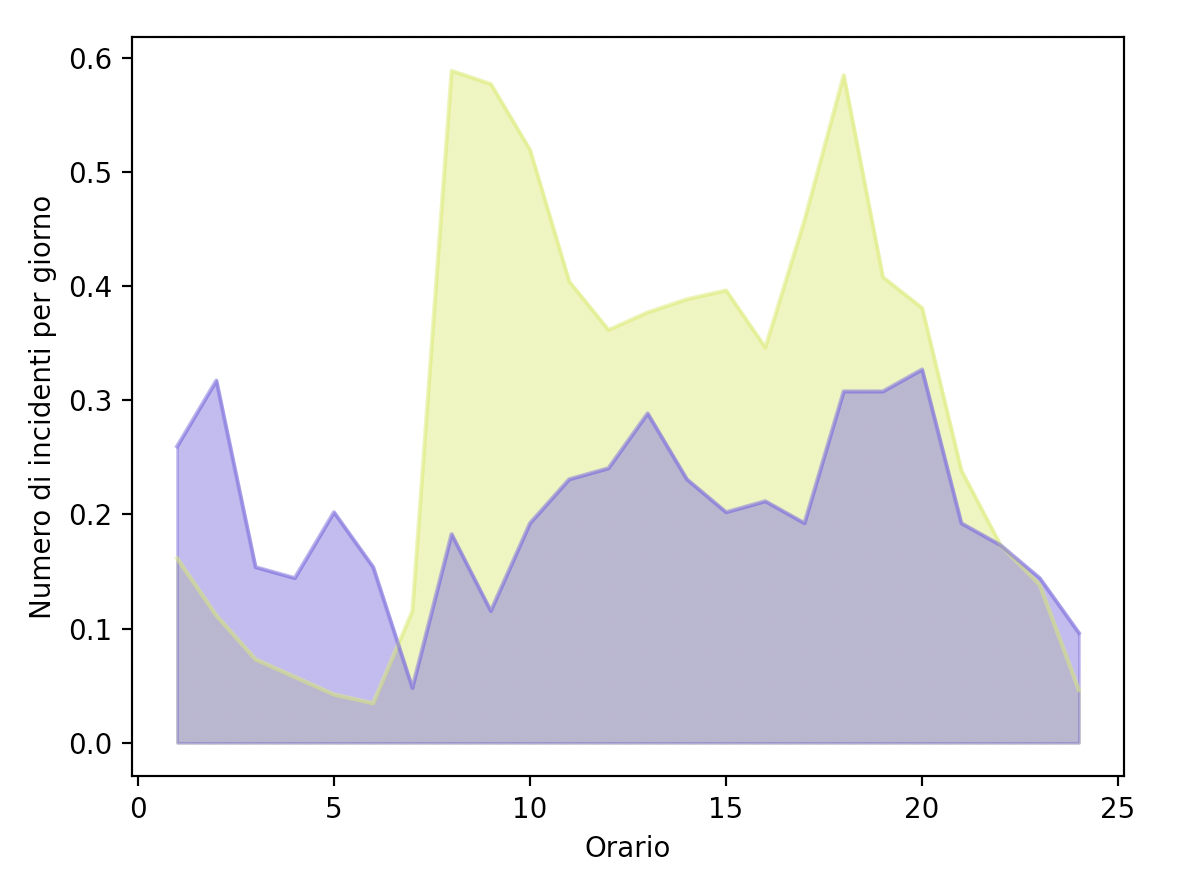
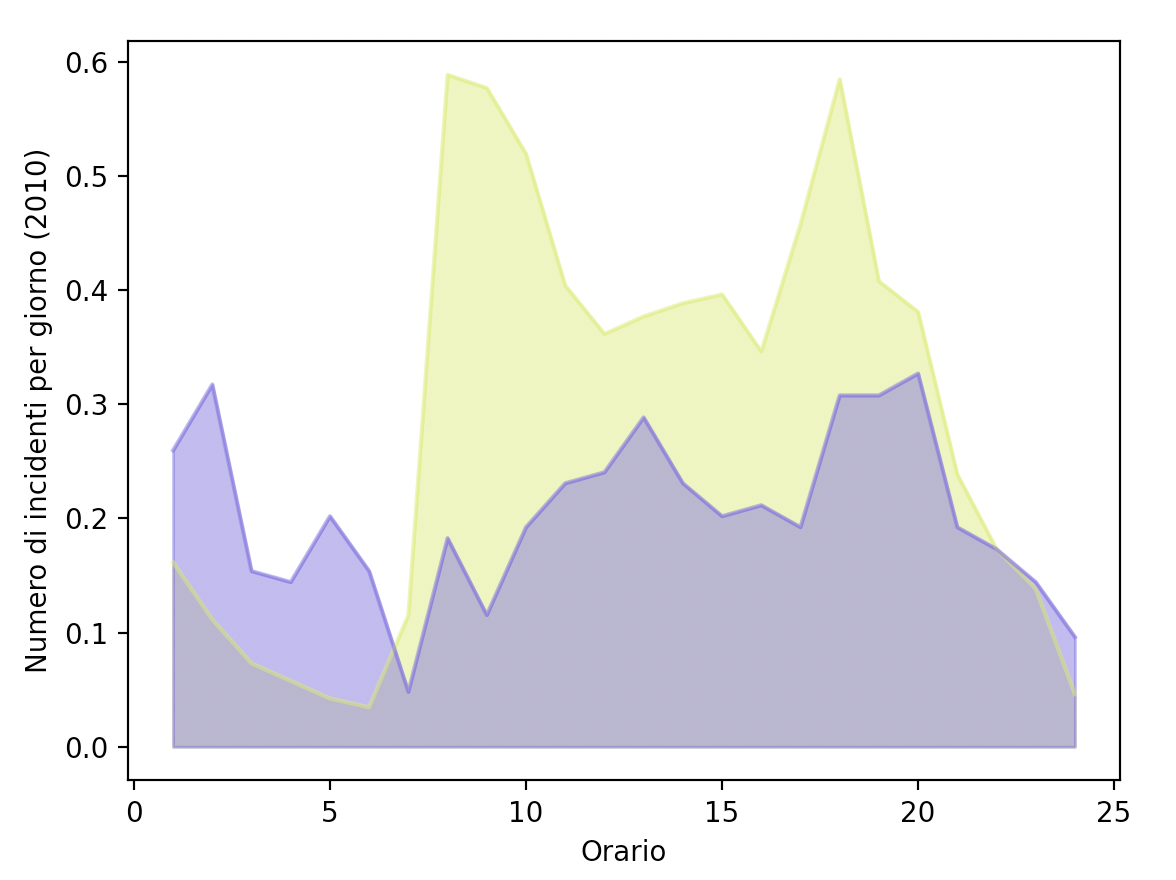
modifiche a grafi

diff --git a/src/incidenti/incidenti_senza_coords/ore_punta/week_weekend.py b/src/incidenti/incidenti_senza_coords/ore_punta/week_weekend.py
@@ -8,8 +8,16 @@ path = "dataset/incidenti/incidenti_2010.txt"
 data = pd.read_csv(path, sep="\t")
 data = data[data['ora'] != 25]
 
-ora_punta_weekend = data[data['giorno_settimana'] > 5]['ora'].value_counts().sort_index()
-ora_punta_week = data[data['giorno_settimana'] < 6]['ora'].value_counts().sort_index()
+ora_weekend = data[data['giorno_settimana'] > 5]['ora'].value_counts().sort_index()
+ora_week = data[data['giorno_settimana'] < 6]['ora'].value_counts().sort_index()
 
-ora_punta_week.plot()
-ora_punta_weekend.plot()
+ora_week /= 5 * 52
+ora_weekend /= 2 * 52
+
+ora_week.plot(color='#d5ef5f', alpha=0.5)
+ora_weekend.plot(color='#7057e0', alpha=0.5)
+plt.xlabel("Orario")
+plt.ylabel("Numero di incidenti per giorno (2010)")
+plt.fill_between(ora_week.index, ora_week, color='#d5ef5f', alpha=0.5)
+plt.fill_between(ora_weekend.index, ora_weekend, color='#7057e0', alpha=0.5)
+plt.show()

diff --git a/src/incidenti/incidenti_senza_coords/ore_punta/week_weekend_milano.py b/src/incidenti/incidenti_senza_coords/ore_punta/week_weekend_milano.py
@@ -21,7 +21,7 @@ ora_weekend /= 2 * 52
 ora_week.plot(color='#d5ef5f', alpha=0.5)
 ora_weekend.plot(color='#7057e0', alpha=0.5)
 plt.xlabel("Orario")
-plt.ylabel("Numero di incidenti per giorno")
+plt.ylabel("Numero di incidenti per giorno (2010)")
 plt.fill_between(ora_week.index, ora_week, color='#d5ef5f', alpha=0.5)
 plt.fill_between(ora_weekend.index, ora_weekend, color='#7057e0', alpha=0.5)
 plt.show()
